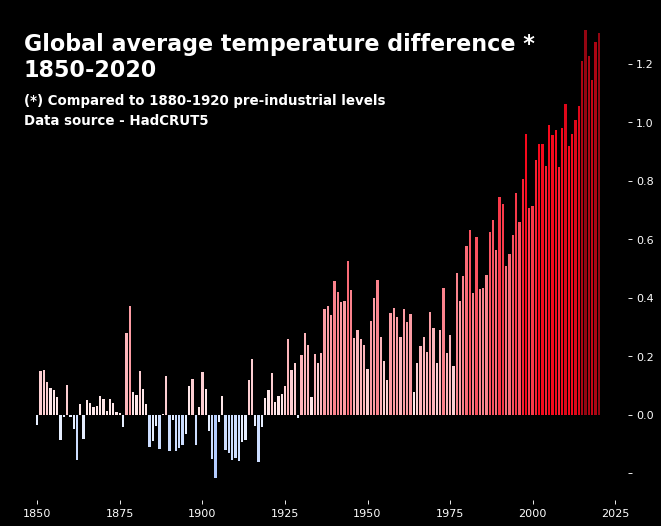
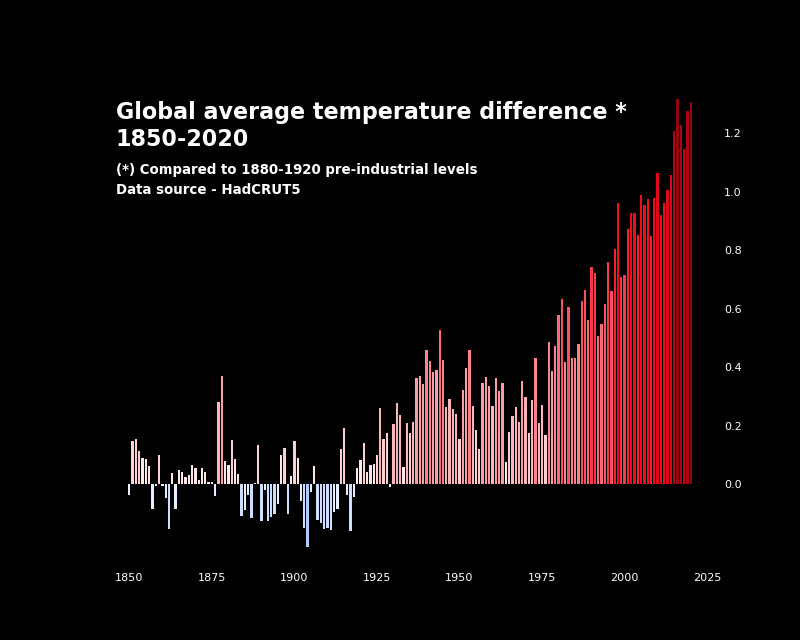
Bar plot: hide ticks but show tick labels

diff --git a/hadcrut5-bars.py b/hadcrut5-bars.py
@@ -101,8 +101,8 @@ def plotbar(dataset, outfile, period, verbose):
     #ax.axis('off')
     ax.set_frame_on(False)
     ax.yaxis.tick_right()
-    #ax.yaxis.set_major_formatter(ticker.FormatStrFormatter(' %+ 0.1f'))
     ax.yaxis.set_major_formatter(major_formatter)
+    ax.tick_params(axis=u'both', which=u'both',length=0)
 
     upper, left = .95, .025
     last_year = years[-1]
@@ -129,7 +129,7 @@ def plotbar(dataset, outfile, period, verbose):
     fig.set_size_inches(10, 8)   # 1 inch equal to 80pt
 
     if outfile:
-        fig.savefig(outfile, dpi=80, bbox_inches='tight')
+        fig.savefig(outfile, dpi=80, bbox_inches=None)
 
     plt.show()
 
